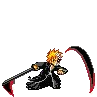
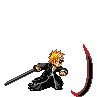
Corrige recortes: los frames de ataque ya no quedan cortados
Las cajas automáticas (bandas + columnas) recortaban la espada de Ichigo y el
arco del corte de Kenpachi, porque esos efectos se extienden más allá del hueco
que separa un sprite del siguiente, y la banda los cortaba.

slice-mascots.py ahora acepta, por fotograma, un índice (extracción automática,
para poses compactas como idle/walk) o una región manual [x0,y0,x1,y1] que se
ajusta al contenido REAL que encierra —sin cortar y sin capturar sprites
vecinos—. Los ataques de ambas mascotas pasan a usar regiones, así se recortan
completos (espada e estela incluidas). El lienzo cuadrado común se recalcula
sobre esas cajas, de modo que nada queda fuera y todas las animaciones
comparten escala.

Sprites regenerados. Tests y check de calidad OK.

Claude-Session: https://claude.ai/code/session_016FhCLTu6gNUmF7MNL5LFU6

Changed region(s): [[0.0, 0.433, 0.9897, 1.0]]

diff --git a/tools/slice-mascots.py b/tools/slice-mascots.py
@@ -34,8 +34,15 @@ SHEETS = os.path.join(ROOT, "tools", "mascot-sheets")
 # Umbral de "fondo blanco": un pixel es fondo si sus 3 canales superan esto.
 BG = 236
 
-# Definicion de cada mascota: hoja fuente + que indices de fotograma (segun la
-# extraccion por bandas+columnas) forman cada animacion.
+# Definicion de cada mascota: hoja fuente + que fotogramas forman cada animacion.
+#
+# Cada fotograma se indica de una de dos formas:
+#   • int  -> índice en la extracción automática por bandas+columnas (sirve para
+#             poses compactas: idle, walk).
+#   • [x0,y0,x1,y1] -> región manual. El recorte se ajusta al contenido REAL
+#             dentro de esa región (sin cortar) y sin capturar sprites vecinos.
+#             Se usa en los ataques, cuya espada/estela se sale de la banda que
+#             detecta el modo automático y quedaba cortada.
 MASCOTS = [
     {
         "id": "ichigo", "name": "Ichigo Kurosaki", "anime": "Bleach",
@@ -43,7 +50,7 @@ MASCOTS = [
         "anims": {
             "idle":   [0, 2, 4],
             "walk":   [7, 8, 9],
-            "attack": [20, 21, 22],
+            "attack": [[98, 356, 172, 438], [329, 380, 428, 442], [183, 382, 286, 442]],
         },
         "fps": {"idle": 5, "walk": 10, "attack": 12},
     },
@@ -53,7 +60,7 @@ MASCOTS = [
         "anims": {
             "idle":   [0],
             "walk":   [6, 7, 8, 9, 10, 11, 12, 13],
-            "attack": [27, 28, 29],
+            "attack": [[78, 338, 152, 422], [160, 322, 256, 423], [258, 338, 338, 422]],
         },
         "fps": {"idle": 4, "walk": 11, "attack": 12},
     },
@@ -111,7 +118,7 @@ def clusters_in_band(fg, y0, y1, min_w=12, gap=6):
 
 
 def extract_frames(path):
-    """Devuelve (imagen, lista de cajas [x0,y0,x1,y1]) en orden fila->columna."""
+    """Devuelve (imagen, mask fg, cajas [x0,y0,x1,y1]) en orden fila->columna."""
     im = Image.open(path).convert("RGB")
     fg = foreground(np.asarray(im))
     boxes = []
@@ -122,7 +129,25 @@ def extract_frames(path):
             if len(ys) == 0:
                 continue
             boxes.append((x0, y0 + ys[0], x1, y0 + ys[-1] + 1))
-    return im, boxes
+    return im, fg, boxes
+
+
+def tight_box(fg, region):
+    """Ajusta una región manual [x0,y0,x1,y1] al contenido real que encierra."""
+    x0, y0, x1, y1 = region
+    sub = fg[y0:y1, x0:x1]
+    ys = np.where(sub.any(axis=1))[0]
+    xs = np.where(sub.any(axis=0))[0]
+    if not len(ys):
+        return tuple(region)
+    return (x0 + int(xs[0]), y0 + int(ys[0]), x0 + int(xs[-1]) + 1, y0 + int(ys[-1]) + 1)
+
+
+def resolve_box(item, fg, boxes):
+    """Un fotograma es un índice (auto) o una región [x0,y0,x1,y1] (manual)."""
+    if isinstance(item, int):
+        return boxes[item]
+    return tight_box(fg, item)
 
 
 def clean_alpha(arr, light_luma=196, speck=14, hole=8):
@@ -186,17 +211,24 @@ def normalize(sprite, side):
 
 
 def build(mascot):
-    im, boxes = extract_frames(os.path.join(SHEETS, mascot["sheet"]))
-    used = sorted({i for seq in mascot["anims"].values() for i in seq})
-    for i in used:
-        if i >= len(boxes):
-            raise SystemExit(
-                f"{mascot['id']}: indice {i} fuera de rango ({len(boxes)} fotogramas)")
-    # Lienzo cuadrado comun: el mayor lado entre todos los fotogramas usados.
+    im, fg, boxes = extract_frames(os.path.join(SHEETS, mascot["sheet"]))
+    # Resolver cada fotograma (índice auto o región manual) a una caja concreta.
+    resolved = {}
+    for anim, items in mascot["anims"].items():
+        seq = []
+        for it in items:
+            if isinstance(it, int) and it >= len(boxes):
+                raise SystemExit(
+                    f"{mascot['id']}: índice {it} fuera de rango ({len(boxes)} fotogramas)")
+            seq.append(resolve_box(it, fg, boxes))
+        resolved[anim] = seq
+
+    # Lienzo cuadrado común: el mayor lado entre TODOS los fotogramas usados, así
+    # nada queda recortado y todas las animaciones comparten escala.
     side = 0
-    for i in used:
-        x0, y0, x1, y1 = boxes[i]
-        side = max(side, x1 - x0, y1 - y0)
+    for seq in resolved.values():
+        for (x0, y0, x1, y1) in seq:
+            side = max(side, x1 - x0, y1 - y0)
     side += 4  # holgura para que no toque los bordes
 
     rel_dir = os.path.join("images", "mascots", mascot["id"])
@@ -208,10 +240,10 @@ def build(mascot):
             os.remove(os.path.join(out_dir, f))
 
     frames = {}
-    for anim, idxs in mascot["anims"].items():
+    for anim, seq in resolved.items():
         rels = []
-        for n, i in enumerate(idxs):
-            spr = normalize(keyed_crop(im, boxes[i]), side)
+        for n, box in enumerate(seq):
+            spr = normalize(keyed_crop(im, box), side)
             name = f"{anim}-{n}.png"
             spr.save(os.path.join(out_dir, name))
             rels.append(rel_dir.replace(os.sep, "/") + "/" + name)
